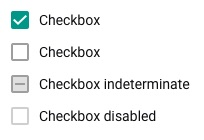
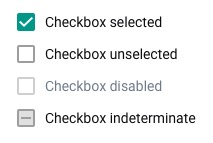
Update checkbox & radio disabled styles

diff --git a/atoms/checkbox.md b/atoms/checkbox.md
@@ -1,7 +1,7 @@
 # Checkbox
 A checkbox is a control that allows a user to toggle an option.
 
-![](../images/checkbox.jpg)
+![](../images/checkbox.png)
 
 ## Usage
 Checkboxes are used when an option can be toggled on or off. Toggling a checkbox on (true) is always considered a positive action and should reflect a positive/true/on state. Multiple checkboxes can be used in a list where a user can toggle multiple elements.
@@ -15,5 +15,5 @@ The checked/unchecked/disabled states of a checkbox are self-explanatory. An ind
 
 ## Examples in use
 
-![](../images/checkbox-example.png) 
+![](../images/checkbox-example.png)
 *Checkboxes are used for toggling on/off the display of certain elements. Checkbox status True/On indicates that this element will display*
